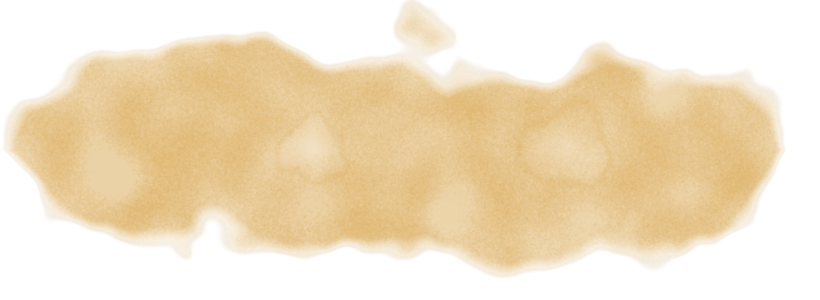
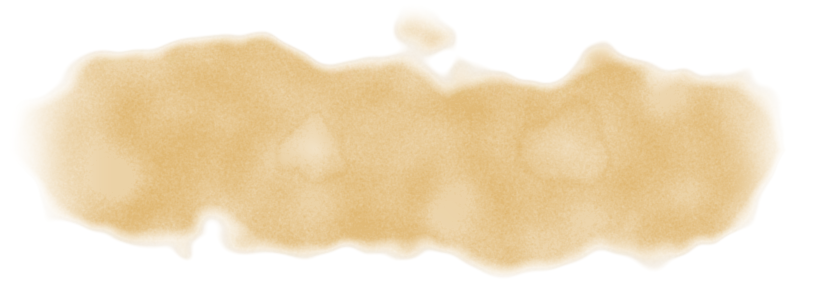
The cover and the board redesigned: painted cover, paper answer slips (v63)
Claude-Session: https://claude.ai/code/session_01S6jGwBByseVEp3WDEoW6Ye

Changed region(s): [[0.0, 0.3, 0.122, 0.72], [0.8841, 0.3, 0.9756, 0.69], [0.4878, 0.0, 0.5488, 0.09]]

diff --git a/index.html b/index.html
@@ -2387,9 +2387,9 @@
     #qz::before { -webkit-mask-image: none; mask-image: none;
       opacity: var(--at-wash-op);
       background:
-        url(img/atelier/wash-indigo.webp) -18vw -6vh / 92vw auto no-repeat,
-        url(img/atelier/wash-umber.webp) right -22vw bottom -4vh / 78vw auto no-repeat,
-        url(img/atelier/wash-green.webp) left -26vw bottom 22vh / 62vw auto no-repeat; }
+        url(img/atelier/wash-indigo.webp?2) -18vw -6vh / 92vw auto no-repeat,
+        url(img/atelier/wash-umber.webp?2) right -22vw bottom -4vh / 78vw auto no-repeat,
+        url(img/atelier/wash-green.webp?2) left -26vw bottom 22vh / 62vw auto no-repeat; }
 
     /* the title: ink lettering, Milhão laid over a gold wash */
 
@@ -2428,7 +2428,7 @@
     .pg-home h1.display { text-shadow: 0 1px 0 rgba(0,0,0,.18); }
     .pg-home h1 em.brass { position: relative; display: inline-block; padding: 0 .14em; }
     .pg-home h1 em.brass::before { content: ''; position: absolute; left: -.2em; right: -.25em; top: .18em; bottom: .02em;
-      z-index: -1; background: url(img/atelier/wash-gold.webp) center / 100% 100% no-repeat; opacity: .55; }
+      z-index: -1; background: url(img/atelier/wash-gold.webp?2) center / 100% 100% no-repeat; opacity: .55; }
 
     /* the cover sticker is pinned to the page, a little askew */
     .pg-home .hero-sticker { transform: rotate(-1.6deg);
@@ -2466,6 +2466,116 @@
     .pg-home .alb-ring-lg::before { background: var(--stock-2) var(--at-paper); background-size: 256px 256px; }
     .pg-home .home-foot .btn-icon { border: 0; background: var(--at-card-2); border-radius: 0;
       -webkit-mask: url(img/atelier/stroke-dab.webp) center / 100% 100%; mask: url(img/atelier/stroke-dab.webp) center / 100% 100%; }
+
+    /* ═══ A CAPA — the cover as a magazine cover, not a stack of widgets ═══
+       The painting is the page: full bleed, fading into the paper; the title
+       is set over its foot; everything else is typography on the paper —
+       a contents list, a fan of stickers — with no boxes around it. */
+    .cover { padding: 0 0 26px; gap: 0; align-items: stretch; text-align: left; min-height: 100%; }
+    .cv-art { position: relative; margin: 0; height: min(64vh, 560px); min-height: 380px; overflow: hidden; }
+    .cv-art img { position: absolute; inset: 0; width: 100%; height: 100%; object-fit: cover; object-position: 50% 22%;
+      -webkit-mask-image: linear-gradient(180deg, #000 0%, #000 52%, rgba(0,0,0,.55) 74%, transparent 96%);
+              mask-image: linear-gradient(180deg, #000 0%, #000 52%, rgba(0,0,0,.55) 74%, transparent 96%);
+      animation: cvIn 1.1s cubic-bezier(.2,.7,.2,1) both; }
+    @keyframes cvIn { from { opacity: 0; transform: scale(1.06); } to { opacity: 1; transform: none; } }
+    .cv-art::before { content: ''; position: absolute; inset: 0 0 auto; height: 96px; z-index: 1;
+      background: linear-gradient(180deg, rgba(14,12,10,.55), transparent); pointer-events: none; }
+    .cv-mast { position: absolute; z-index: 2; top: 0; left: 0; right: 0; display: flex; justify-content: space-between;
+      padding: max(16px, env(safe-area-inset-top)) 22px 0;
+      font: 700 10px/1 var(--font-s); letter-spacing: .26em; text-transform: uppercase; color: rgba(243,238,222,.92);
+      text-shadow: 0 1px 3px rgba(0,0,0,.5); }
+    .cv-cap { position: absolute; z-index: 2; right: 22px; bottom: 30%; max-width: 46%; text-align: right;
+      font: 600 13px/1.25 var(--font-d); color: #F3EEDE; text-shadow: 0 1px 6px rgba(0,0,0,.75); }
+    .cv-cap b { display: block; font: 700 9px/1 var(--font-s); letter-spacing: .22em; color: var(--brass-2, #E0B968); margin-bottom: 5px; }
+    .cv-cap i { display: block; font: 600 10.5px/1.3 var(--font-s); font-style: normal; opacity: .82; margin-top: 2px; }
+    .cv-body { position: relative; z-index: 2; margin-top: -118px; padding: 0 22px; display: flex; flex-direction: column; gap: 20px;
+      width: 100%; max-width: 460px; align-self: center; }
+    .cv-title { font-size: clamp(46px, 14.5vw, 62px); line-height: .9; margin: 0; letter-spacing: -.035em;
+      text-shadow: 0 2px 18px rgba(0,0,0,.35); }
+    .cv-title em { display: block; font-style: italic; font-size: 1.12em; margin-left: -.04em; }
+    .cv-dek { margin: -6px 0 0; font: 500 15px/1.42 var(--font-d); color: var(--ink-2); max-width: 30ch; }
+    .cv-dek b { color: var(--brass); font-weight: 700; white-space: nowrap; }
+    .cv-cta { display: flex; flex-direction: column; align-items: flex-start; gap: 8px; }
+    .cover .cv-cta .btn-lg { width: 100%; justify-content: center; font-size: 19px; padding: 22px 30px 23px; }
+    .cv-best { font: 700 10px/1 var(--font-s); letter-spacing: .2em; text-transform: uppercase; color: var(--ink-3); padding-left: 6px; }
+    .cv-best b { color: var(--brass); letter-spacing: .08em; }
+    .cv-h { display: flex; align-items: center; gap: 10px; margin: 0;
+      font: 700 10px/1 var(--font-s); letter-spacing: .26em; text-transform: uppercase; color: var(--ink-3); }
+    .cv-toc .cv-h::after { content: ''; flex: 1; height: 5px; background: currentColor; opacity: .35;
+      -webkit-mask: url(img/atelier/stroke-bar.webp) center / 100% 100%; mask: url(img/atelier/stroke-bar.webp) center / 100% 100%; }
+    .cv-toc { display: flex; flex-direction: column; }
+    .cv-row { display: grid; grid-template-columns: 38px 1fr 38px; align-items: center; gap: 8px; width: 100%;
+      padding: 14px 0; background: none; border: 0; text-align: left; cursor: pointer; position: relative; color: var(--ink); }
+    .cv-row + .cv-row::before { content: ''; position: absolute; left: 38px; right: 0; top: 0; height: 1px; background: var(--rule); }
+    .cv-n { font: italic 600 22px/1 var(--font-d); color: var(--md); }
+    .cv-rt b { display: block; font: 600 22px/1.05 var(--font-d); letter-spacing: -.015em; }
+    .cv-rt small { display: block; margin-top: 4px; font: 600 12px/1.2 var(--font-s); color: var(--ink-3); }
+    .cv-ic { width: 34px; height: 34px; justify-self: end; transition: transform .2s; }
+    .cv-row:hover .cv-ic, .cv-row:focus-visible .cv-ic { transform: translateX(3px) rotate(-6deg); }
+    .cv-row:active { transform: translateY(1px); }
+    .cv-album { display: flex; align-items: center; gap: 18px; padding: 18px 16px 18px 12px; border: 0; width: 100%; cursor: pointer; text-align: left;
+      color: var(--ink); background: var(--at-card-img) center / 100% 100% no-repeat; }
+    .cv-album:hover { background-image: var(--at-card-on); }
+    .cv-fan { position: relative; flex: none; width: 92px; height: 74px; }
+    .cv-fan i { position: absolute; top: 4px; left: calc(var(--i) * 24px); width: 44px; height: 62px; padding: 2px; background: #F4EEDC;
+      border-radius: 2px; box-shadow: 0 3px 8px rgba(0,0,0,.35); transform: rotate(calc((var(--i) - 1) * 9deg));
+      transform-origin: 50% 120%; }
+    .cv-fan i:nth-child(2) { top: 0; z-index: 1; }
+    .cv-fan img { width: 100%; height: 100%; object-fit: cover; object-position: 50% 18%; display: block;
+      filter: grayscale(1) contrast(.8) brightness(.9); opacity: .55; }
+    .cv-fan i.on img { filter: none; opacity: 1; }
+    .cv-at { flex: 1; min-width: 0; display: flex; flex-direction: column; gap: 6px; }
+    .cv-at b { font: 600 30px/1 var(--font-d); letter-spacing: -.02em; }
+    .cv-at b small { font: 600 12px/1 var(--font-s); letter-spacing: 0; color: var(--ink-3); }
+    .cv-bar { height: 7px; background: var(--rule-2, rgba(128,128,128,.2));
+      -webkit-mask: url(img/atelier/stroke-bar.webp) center / 100% 100%; mask: url(img/atelier/stroke-bar.webp) center / 100% 100%; }
+    .cv-bar i { display: block; height: 100%; background: linear-gradient(90deg, #b98c42, #e6c46f); }
+    .cover .medal-strip { max-width: none; justify-content: flex-start; }
+    .cv-body > div:has(> #medal-strip) { align-items: flex-start !important; }
+    .cover .home-foot { justify-content: flex-start; padding-top: 4px; }
+    .cv-stats { font-size: 10.5px; color: var(--ink-3); display: flex; gap: 5px; align-items: center; margin-top: -10px; }
+    .cover .home-news { align-self: stretch; }
+
+    /* ═══ O TABULEIRO — the question set on the page, the answers as paper
+       slips laid on it. Ivory on the night paper reads like cards dealt on a
+       table; the chosen one is painted gold, the verdict green or red. ═══ */
+    .qcard { background: none !important; padding: 2px 2px 4px; min-height: 0; }
+    .qcard::before { display: none; }
+    .qcard > p { font-size: clamp(19px, 5.4vw, 23px); line-height: 1.22; letter-spacing: -.012em; font-weight: 600; }
+    .b:not(.b-fig):not(.b-gone) {
+      --ink: #22251F; --ink-2: #4B4F45; --ink-3: #6A6A5E; color: var(--ink);
+      background-image: url(img/atelier/slip-ivory.webp);
+      filter: drop-shadow(0 3px 5px rgba(0,0,0,.28)); }
+    .b:not(.b-fig):not(.b-gone):hover { background-image: url(img/atelier/slip-ivory.webp); filter: drop-shadow(0 5px 8px rgba(0,0,0,.32)); }
+    .b:not(.b-fig):not(.b-gone):nth-child(4n+1) { transform: rotate(-.5deg); }
+    .b:not(.b-fig):not(.b-gone):nth-child(4n+2) { transform: rotate(.4deg); }
+    .b:not(.b-fig):not(.b-gone):nth-child(4n+3) { transform: rotate(.3deg); }
+    .b:not(.b-fig):not(.b-gone):nth-child(4n)   { transform: rotate(-.35deg); }
+    .b:not(.b-fig) .tab { background: none; color: #8A6A2C; top: 7px; left: 10px; padding: 0;
+      font: italic 600 14px/1 var(--font-d); letter-spacing: 0; }
+    .b-text .tile-name { font-family: var(--font-d); font-weight: 600; font-size: 16px; letter-spacing: -.01em; }
+    .b-text .tile-name-long { font-size: 14px; }
+    .board-2-tight .b-text .tile-name { font-size: 13.5px; }
+    /* a chosen figurinha is lifted off the board in a gold frame */
+    .b-fig.b-sel, .b-fig.b-locked { box-shadow: 0 0 0 3px #E0B968, 0 12px 20px rgba(0,0,0,.45) !important;
+      transform: translateY(-4px) rotate(-1.2deg); animation: none; }
+    .b-fig.b-correct { box-shadow: 0 0 0 3px #4FAF7C, 0 10px 18px rgba(0,0,0,.4) !important; }
+    .b-fig.b-wrong { box-shadow: 0 0 0 3px #D0573F !important; }
+    /* Quem sou eu: the question and its clues in the same hand as every other */
+    .qcard-clue > p { font-family: var(--font-d); font-size: 24px; font-weight: 600; }
+    .clues li { font-family: var(--font-d); font-size: 17px; line-height: 1.3; }
+    .b-sel:not(.b-fig), .b-locked:not(.b-fig) { background-image: url(img/atelier/slip-gold.webp) !important; box-shadow: none !important;
+      transform: translateY(-3px) rotate(-1deg) !important; filter: drop-shadow(0 8px 10px rgba(0,0,0,.38)); }
+    .b-locked:not(.b-fig) { animation: slipLock .9s ease-in-out infinite; }
+    @keyframes slipLock { 50% { transform: translateY(-5px) rotate(-1.4deg); } }
+    .b-sel:not(.b-fig) .tab, .b-locked:not(.b-fig) .tab { color: #5A3E0C; background: none; }
+    .b-correct:not(.b-fig) { background-image: url(img/atelier/slip-good.webp) !important; box-shadow: none !important; }
+    .b-wrong:not(.b-fig) { background-image: url(img/atelier/slip-bad.webp) !important; box-shadow: none !important; }
+    .b-correct:not(.b-fig) .tab, .b-wrong:not(.b-fig) .tab { background: none; color: #22251F; }
+    .b-gone { border: 0; background: url(img/atelier/stroke-card.webp) center / 100% 100% no-repeat; opacity: .08; }
+    /* the lifelines: dabs of paint with a word under them, no card */
+    .ajuda { background: none !important; min-width: 0; padding: 4px 6px; }
+    .ajuda .aj-disc { width: 34px; height: 34px; }
   </style>
 </head>
 <body>
@@ -13834,8 +13944,10 @@ const decStyle = d => d <= 1940 ? 'dec-a' : d <= 1960 ? 'dec-b'
    the line said "Atacante · Inglaterra" under Bobby Charlton and "Fenômeno"
    under Ronaldo Fenômeno, so the same slot meant a different thing depending
    on the face. The nickname still has its own place on the back of the card. */
+/* the portraits still waiting for their painting: the cover never uses them */
+const UNPAINTED = new Set(['nedved', 'gento', 'rossi', 'antony', 'butragueno', 'meazza']);
 function heroSticker() {
-  const great = PL.filter(p => FAMOUS.has(p.id) || (p.wc && p.wc.length) || p.bo > 0);
+  const great = PL.filter(p => !UNPAINTED.has(p.id) && (FAMOUS.has(p.id) || (p.wc && p.wc.length) || p.bo > 0));
   const mine  = great.filter(p => album.has(p.id));
   const pool  = mine.length ? mine : (great.length ? great : PL);
   const p = pool[Math.floor(Math.random() * pool.length)] || PL[0];
@@ -15051,41 +15163,73 @@ function html() {
         ${tail ? `<span class="ms">${tail}</span>` : ''}
       </button>`;
 
+    const NUM = String(num).padStart(3, '0');
+    const pct = albumPct();
+    /* three faces for the album's fan: the latest you hold, else great ones
+       still to find (shown as missing — the invitation) */
+    const held = PL.filter(p => album.has(p.id) && !UNPAINTED.has(p.id));
+    const fan = (held.length >= 3 ? held.slice(-3)
+      : [...held, ...PL.filter(p => FAMOUS.has(p.id) && !album.has(p.id) && !UNPAINTED.has(p.id))].slice(0, 3));
+    const row = (id, n, label, tail, kind, ic) => `
+      <button id="${id}" class="cv-row mode-${kind}">
+        <span class="cv-n">${n}</span>
+        <span class="cv-rt"><b>${label}</b><small>${tail}</small></span>
+        <span class="mode-disc cv-ic">${ic}</span>
+      </button>`;
+
     return `
-    <div class="pg pg-center pg-home" style="padding:14px 20px 14px;gap:10px;">
+    <div class="pg pg-home cover">
 
-      <div class="eyebrow" style="width:100%;display:flex;justify-content:space-between;">
-        <span>Edição ${year}</span><b>Fig. Nº ${String(num).padStart(3, '0')}</b>
-      </div>
+      <figure class="cv-art">
+        <img src="${hero.img}" alt="${hero.n}" decoding="async">
+        <div class="cv-mast">
+          <span>Futebol Quiz BR</span><span>Edição ${year}</span>
+        </div>
+        <figcaption class="cv-cap"><b>Nº ${NUM}</b> ${hero.n}<i>${POS_NAME[hero.pos]} · ${CTRY_NAME[hero.ctry] || hero.ctry}</i></figcaption>
+      </figure>
 
-      <div>
-        <div class="eyebrow">Futebol Quiz BR</div>
-        <h1 class="display" style="font-size:38px;margin-top:6px;">Rumo ao<br>
-          <em class="brass" style="font-size:46px;">Milhão</em></h1>
-      </div>
+      <div class="cv-body">
+        <h1 class="display cv-title">Rumo ao <em class="brass">Milhão</em></h1>
+        <p class="cv-dek">Dezesseis perguntas até <b>R$ 1.000.000</b>, cada uma mais difícil — e quatro cartas especiais no caminho.</p>
 
-      <div class="hero-sticker" style="position:relative;">
-        <span class="alb-n" style="font-size:9px;padding:2px 6px;">Nº ${String(num).padStart(3, '0')}</span>
-        ${figurinha(hero, 'hero', { sub: `${POS_NAME[hero.pos]} · ${CTRY_NAME[hero.ctry] || hero.ctry}`,
-                                    copy: album.has(hero.id) ? copyOf(hero.id) : null })}
-      </div>
+        <div class="cv-cta">
+          <button id="mil-btn" class="btn btn-brass btn-lg">${ICON.play('currentColor', 15)} Jogar agora</button>
+          ${best > 0 ? `<span class="cv-best">Seu recorde <b>${money(best)}</b></span>` : ''}
+        </div>
 
-      <p class="small muted home-intro" style="max-width:300px;font-size:12.5px;">
-        Dezesseis perguntas até <b class="brass" style="white-space:nowrap;">R$ 1.000.000</b>,
-        cada uma mais difícil — e quatro cartas especiais no caminho.</p>
+      ${(() => {
+        /* one line of news, when there is some: the welcome packet first,
+           then a birthday edition waiting to be won today */
+        const v = V();
+        if (v.welcome && v.welcome.length) return `<button id="bwelc" class="home-news is-gift" type="button">
+          <span class="hn-ic">${ICON.star('currentColor', 13)}</span>
+          <span><b>Pacote de boas-vindas</b> · suas figurinhas foram certificadas</span></button>`;
+        const t = todaysBdays().filter(id => !v.lim[`${id}:${new Date().getFullYear()}`]);
+        if (t.length) return `<button id="bvit" class="home-news" type="button">
+          <span class="hn-ic">${ICON.star('currentColor', 13)}</span>
+          <span>Aniversário de <b>${PL.find(p => p.id === t[0]).n}</b> · edição do dia</span></button>`;
+        return '';
+      })()}
 
-      ${best > 0 ? `<span class="chip chip-brass">${ICON.money('currentColor', 11)} Seu recorde · ${money(best)}</span>` : ''}
+        <nav class="cv-toc" aria-label="Modos">
+          <h2 class="cv-h">Outros jogos</h2>
+          ${row('daily-btn', 'I', 'Diário',
+            done ? 'Feito hoje' + (dres ? ' · ' + dres.nCorrect + '/' + dres.total : '')
+                 : 'Desafio nº ' + dayIndex() + (dst > 0 ? ' · ' + dst + ' dias seguidos' : ''),
+            done ? 'done' : 'daily', ICON.calendar('currentColor', 15))}
+          ${row('surv-btn', 'II', 'Mata-mata',
+            (stats.survBest || 0) > 0 ? 'Até errar · recorde ' + stats.survBest : 'Até errar a primeira', 'surv', ICON.shield('currentColor', 15))}
+          ${row('cta-btn', 'III', 'Treino', 'Sem apostar, sem pressa', 'train', ICON.ladder('currentColor', 15))}
+        </nav>
 
-      <button id="mil-btn" class="btn btn-brass btn-lg">${ICON.play('currentColor', 15)} Jogar agora</button>
-
-      <div class="modes">
-        ${mode('daily-btn', ICON.calendar('currentColor', 16), 'Diário',
-          done ? (dres ? dres.nCorrect + '/' + dres.total : 'feito')
-               : 'Nº ' + dayIndex() + (dst > 0 ? ' · ' + dst + ' seg.' : ''), done ? 'done' : 'daily')}
-        ${mode('surv-btn', ICON.shield('currentColor', 16), 'Mata-mata',
-          (stats.survBest || 0) > 0 ? 'recorde ' + stats.survBest : 'até errar', 'surv')}
-        ${mode('cta-btn', ICON.ladder('currentColor', 16), 'Treino', 'sem apostar', 'train')}
-      </div>
+        <button id="balb" class="cv-album" type="button">
+          <span class="cv-fan" aria-hidden="true">${fan.map((p, i) => `<i class="${album.has(p.id) ? 'on' : ''}" style="--i:${i}"><img src="${p.img}" alt="" aria-hidden="true" loading="lazy"></i>`).join('')}</span>
+          <span class="cv-at">
+            <span class="cv-h">Meu álbum</span>
+            <b>${album.size}<small> de ${ALL_STICKERS.length} figurinhas</small></b>
+            <span class="cv-bar"><i style="width:${Math.max(2, pct)}%"></i></span>
+          </span>
+        </button>
 
       ${(() => {
         /* The insígnias, small, on the cover — and printed even at zero. An
@@ -15106,46 +15250,19 @@ function html() {
         </div>`;
       })()}
 
-      ${(() => {
-        /* one line of news, when there is some: the welcome packet first,
-           then a birthday edition waiting to be won today */
-        const v = V();
-        if (v.welcome && v.welcome.length) return `<button id="bwelc" class="home-news is-gift" type="button">
-          <span class="hn-ic">${ICON.star('currentColor', 13)}</span>
-          <span><b>Pacote de boas-vindas</b> · suas figurinhas foram certificadas</span></button>`;
-        const t = todaysBdays().filter(id => !v.lim[`${id}:${new Date().getFullYear()}`]);
-        if (t.length) return `<button id="bvit" class="home-news" type="button">
-          <span class="hn-ic">${ICON.star('currentColor', 13)}</span>
-          <span>Aniversário de <b>${PL.find(p => p.id === t[0]).n}</b> · edição do dia</span></button>`;
-        return '';
-      })()}
+        <div class="home-foot">
+          <button id="bmute" class="btn btn-ghost btn-icon" title="Som" aria-label="Som">${
+            muted ? ICON.mute('currentColor', 14) : ICON.sound('currentColor', 14)}</button>
+          <button id="bmed"  class="link">Insígnias</button>
+          <button id="bvit2" class="link">Vitrine</button>
+          <button id="bcred" class="link">Créditos</button>
+        </div>
 
-      <button id="balb" class="mode mode-album" style="width:100%;max-width:340px;flex-direction:row;gap:11px;text-align:left;">
-        <span class="mode-disc">${ICON.book('currentColor', 17)}</span>
-        <span style="flex:1;min-width:0;">
-          <span class="mt" style="display:block;">Meu álbum</span>
-          <!-- ALL_STICKERS, not PL: the home button was still counting only
-               the players while the album screen counted the whole book, so
-               the ring said 0% next to "0 de 298" of 474. -->
-          <span class="ms" style="display:block;">${album.size} de ${ALL_STICKERS.length} figurinhas</span>
-        </span>
-        <span class="alb-ring alb-ring-lg" style="--p:${albumPct()}">
-          <span class="alb-ring-n">${albumPct()}<i>%</i></span>
-        </span>
-      </button>
-
-      <div class="home-foot">
-        <button id="bmute" class="btn btn-ghost btn-icon" title="Som" aria-label="Som">${
-          muted ? ICON.mute('currentColor', 14) : ICON.sound('currentColor', 14)}</button>
-        <button id="bmed"  class="link">Insígnias</button>
-        <button id="bvit2" class="link">Vitrine</button>
-        <button id="bcred" class="link">Créditos</button>
+        ${stats.games > 0 ? `<div class="cv-stats">
+          ${stats.games} ${stats.games === 1 ? 'partida' : 'partidas'}
+          · ${Math.round(stats.correct / Math.max(1, stats.answered) * 100)}% de acerto
+          ${stats.bestStreak >= 3 ? `· ${ICON.flame('var(--brass)', 11)} ${stats.bestStreak}` : ''}</div>` : ''}
       </div>
-
-      ${stats.games > 0 ? `<div class="small muted" style="font-size:10.5px;display:flex;gap:5px;align-items:center;">
-        ${stats.games} ${stats.games === 1 ? 'partida' : 'partidas'}
-        · ${Math.round(stats.correct / Math.max(1, stats.answered) * 100)}% de acerto
-        ${stats.bestStreak >= 3 ? `· ${ICON.flame('var(--brass)', 11)} ${stats.bestStreak}` : ''}</div>` : ''}
     </div>`;
   }
 

diff --git a/sw.js b/sw.js
@@ -185,8 +185,12 @@
    v62: the atelier — every screen painted to match the portraits: night
         paper by default (cream by day), watercolour washes, gold and green
         brushstroke buttons, painted cards for tiles, lifelines and panels,
-        dabs of paint for the icons. Materials in img/atelier. */
-const VERSION = 'v62';
+        dabs of paint for the icons. Materials in img/atelier.
+   v63: the cover is a magazine cover — a painted portrait full bleed, the
+        title over its foot, the modes as a contents list, the album as a fan
+        of stickers; answers are ivory paper slips dealt on the page, painted
+        gold when chosen, green or red at the verdict. Washes feathered. */
+const VERSION = 'v63';
 const CACHE   = 'futebol-quiz-' + VERSION;
 /* Photos, crests and flags never change under the same name (each file is
    named by its content), so they live in a cache of their own that survives

diff --git a/tools/make_atelier.py b/tools/make_atelier.py
@@ -85,6 +85,10 @@ def wash(name, w, h, color, seed, density=.85, edge=.55, shape='blob'):
         body *= 1 - np.clip(1 - dd, 0, 1) * .35
         body += np.clip(1 - np.abs(dd - 1) * 7, 0, 1) * a * .06
     alpha = np.clip(body + rim * a * edge * .5, 0, 1)
+    # never touch the image's own edge: a wash cut by its rectangle shows a
+    # hard straight line on the page
+    win = np.clip(np.minimum(np.minimum(xx, w - 1 - xx) / (w * .14), np.minimum(yy, h - 1 - yy) / (h * .14)), 0, 1)
+    alpha *= win * win * (3 - 2 * win)
     c = np.array(color, np.float32)
     rgb = np.ones((h, w, 3), np.float32) * c * (1 - .35 * rim[..., None] * edge)
     out = np.dstack([np.clip(rgb, 0, 255), alpha * 255]).astype(np.uint8)
@@ -135,11 +139,23 @@ def dab(name, n, seed):
     save(name, np.dstack([np.full((n, n, 3), 255, np.uint8), (a * 255).astype(np.uint8)]), 90)
 
 
-def filled(name, mask, bgr, alpha):
+def filled(name, mask, bgr, alpha, solid=False, seed=0):
     """A painted card in one colour: the shape of a stroke mask, filled, with
-    the paint a touch denser at the edge where it pooled."""
+    the paint a touch denser at the edge where it pooled. A solid card (a
+    paper slip) keeps only the torn outline: it is opaque inside, and its
+    texture is in the colour — a soft wash and paper tooth — not the alpha,
+    which on the dark page would show through as mottling."""
     m = cv2.imread(os.path.join(OUT, mask), cv2.IMREAD_UNCHANGED)[..., 3].astype(np.float32) / 255
     rim = np.clip(m - cv2.GaussianBlur(m, (0, 0), 3), 0, 1) * 2.2
+    if solid:
+        m = np.clip((cv2.GaussianBlur(m, (0, 0), 2.5) - .35) * 4, 0, 1)
+        h, w = m.shape
+        rng = np.random.default_rng(seed)
+        tone = 1 + noise(h, w, 40, rng)[..., None] * .025 + noise(h, w, .8, rng)[..., None] * .018
+        edge = np.clip(1 - cv2.GaussianBlur(m, (0, 0), 6), 0, 1)[..., None]
+        rgb = np.array(bgr, np.float32) * tone * (1 - edge * .22)
+        save(name, np.dstack([np.clip(rgb, 0, 255), m * alpha * 255]).astype(np.uint8), 88)
+        return
     a = np.clip(m * alpha * (1 + rim * .6), 0, 1)
     rgb = np.ones(m.shape + (3,), np.float32) * np.array(bgr, np.float32)
     save(name, np.dstack([rgb, a * 255]).astype(np.uint8), 88)
@@ -161,3 +177,9 @@ if __name__ == '__main__':
     filled('card-night.webp', 'stroke-card.webp', (200, 226, 236), .13)
     filled('card-day-on.webp', 'stroke-card.webp', (228, 243, 250), .97)
     filled('card-night-on.webp', 'stroke-card.webp', (200, 226, 236), .22)
+    # answer slips: ivory paper laid on the page, and the same slip painted
+    # gold (chosen), green (right) and red (wrong)
+    filled('slip-ivory.webp', 'stroke-card.webp', (214, 232, 242), .97, solid=True, seed=31)
+    filled('slip-gold.webp', 'stroke-card.webp', (118, 196, 232), .98, solid=True, seed=31)
+    filled('slip-good.webp', 'stroke-card.webp', (150, 206, 166), .98, solid=True, seed=31)
+    filled('slip-bad.webp', 'stroke-card.webp', (150, 156, 222), .98, solid=True, seed=31)
